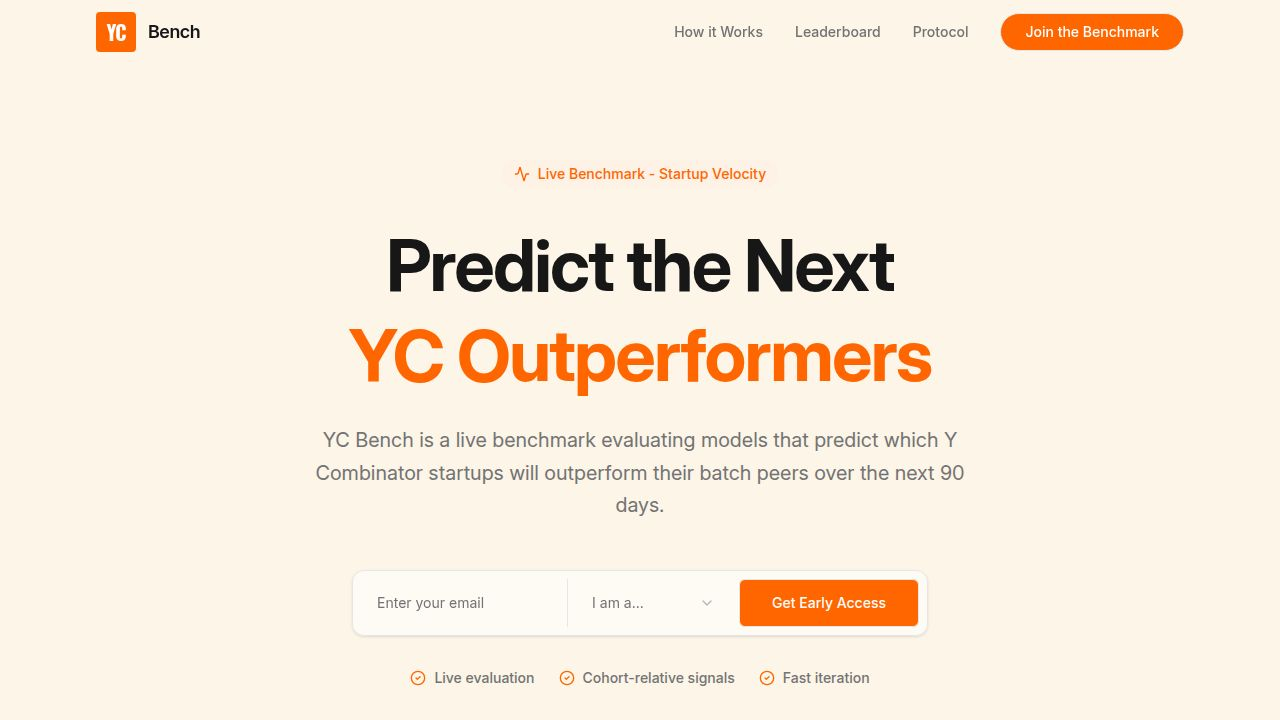
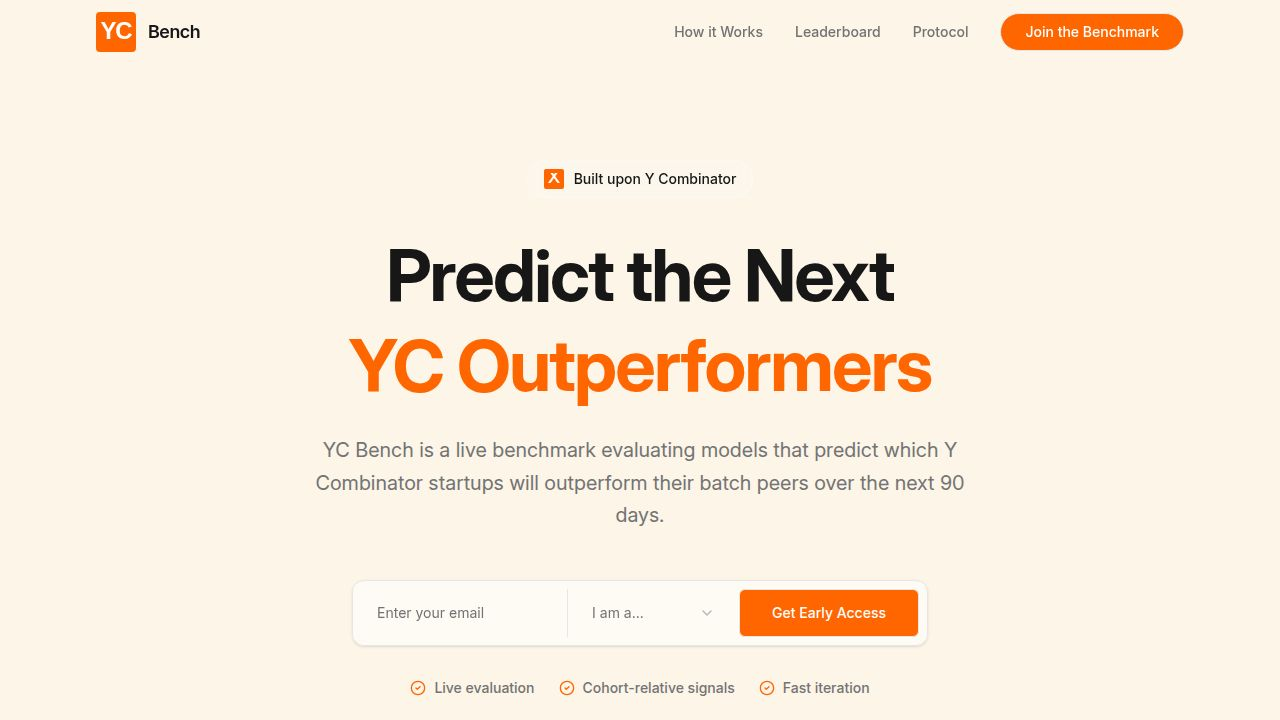
Update benchmark terminology and add YC badge to landing page
Replace existing labels and text with updated terminology and a new "Built upon Y Combinator" badge containing a YC logo SVG.

Replit-Commit-Author: Agent
Replit-Commit-Session-Id: 0cf4bdae-0e9b-4a22-9be0-c2ed8013dff7
Replit-Commit-Checkpoint-Type: full_checkpoint
Replit-Commit-Event-Id: 4a68f374-aedf-4170-9d52-db9f2875a57e
Replit-Commit-Screenshot-Url: https://storage.googleapis.com/screenshot-production-us-central1/9b9df41d-5b3d-4178-b9d3-59469863da7b/0cf4bdae-0e9b-4a22-9be0-c2ed8013dff7/ns9CZNf
Replit-Helium-Checkpoint-Created: true

diff --git a/client/src/pages/home.tsx b/client/src/pages/home.tsx
@@ -99,9 +99,13 @@ export default function Home() {
       <main className="pt-24 pb-0">
         {/* 1. Hero Section */}
         <section className="px-4 sm:px-6 lg:px-8 pt-16 pb-12 max-w-6xl mx-auto text-center">
-          <div className="inline-flex items-center gap-2 px-3 py-1 rounded-full bg-accent/50 text-primary text-sm font-medium mb-8">
-            <Activity className="w-4 h-4" />
-            Live Benchmark - Startup Velocity
+          <div className="inline-flex items-center gap-2.5 px-4 py-2 rounded-full bg-white/20 backdrop-blur-sm border border-white/30 text-foreground text-sm font-medium mb-8">
+            <svg width="20" height="20" viewBox="0 0 40 40" fill="none" xmlns="http://www.w3.org/2000/svg" className="shrink-0">
+              <rect width="40" height="40" rx="4" fill="#FF6600"/>
+              <path d="M13 8L27 28H32L18 8H13Z" fill="white"/>
+              <path d="M27 8L13 28H8L22 8H27Z" fill="white"/>
+            </svg>
+            Built upon Y Combinator
           </div>
           
           <h1 className="text-5xl md:text-7xl font-bold tracking-tight text-foreground mb-6 max-w-4xl mx-auto leading-tight">
@@ -166,7 +170,7 @@ export default function Home() {
         <section className="py-24 max-w-4xl mx-auto px-4 sm:px-6 lg:px-8 text-center">
           <h2 className="text-3xl md:text-4xl font-bold mb-8">The Core Insight</h2>
           <div className="prose prose-lg mx-auto text-muted-foreground space-y-6">
-            <p className="text-2xl text-foreground font-medium">Predicting startup success normally takes years.<br/>YC Bench makes it measurable in months.</p>
+            <p className="text-2xl text-foreground font-medium">Forecasting startup success normally takes years.<br/>YC Bench makes it measurable in months.</p>
             <p>
               Because Y Combinator startups launch in synchronized batches, they form natural peer cohorts. This allows models to measure relative execution and short-term outperformance, instead of waiting for distant outcomes like unicorns or exits.
             </p>
@@ -343,7 +347,7 @@ export default function Home() {
               {
                 step: "1",
                 title: "Models Predict",
-                desc: "Models predict which YC startups will outperform their batch peers in terms of velocity signals.",
+                desc: "Models forecast which YC startups will outperform their batch peers using short-term execution velocity signals.",
                 icon: <Target className="w-6 h-6 text-primary" />
               },
               {
